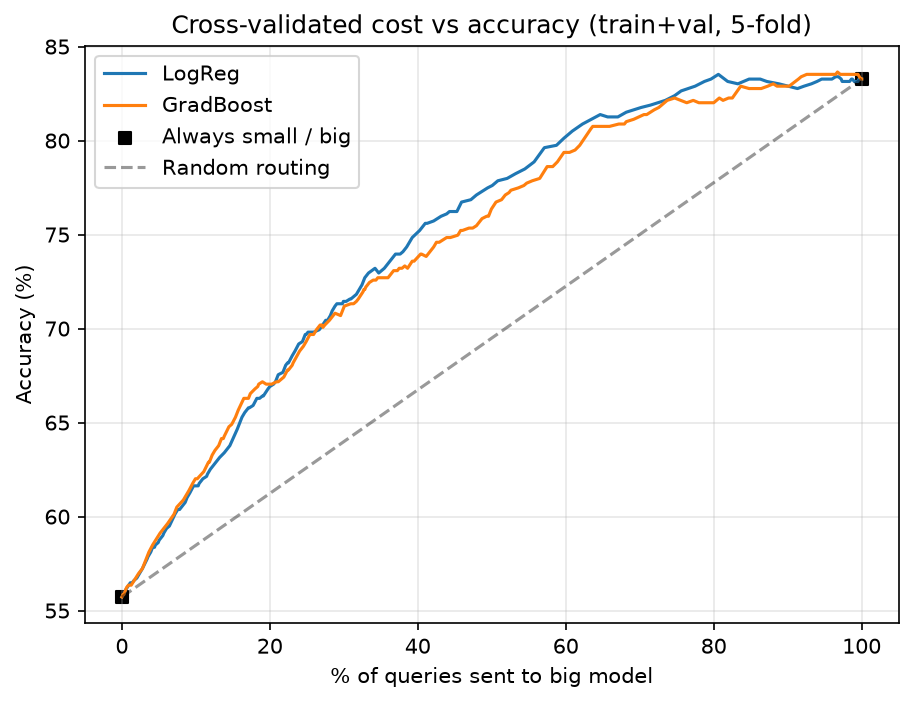
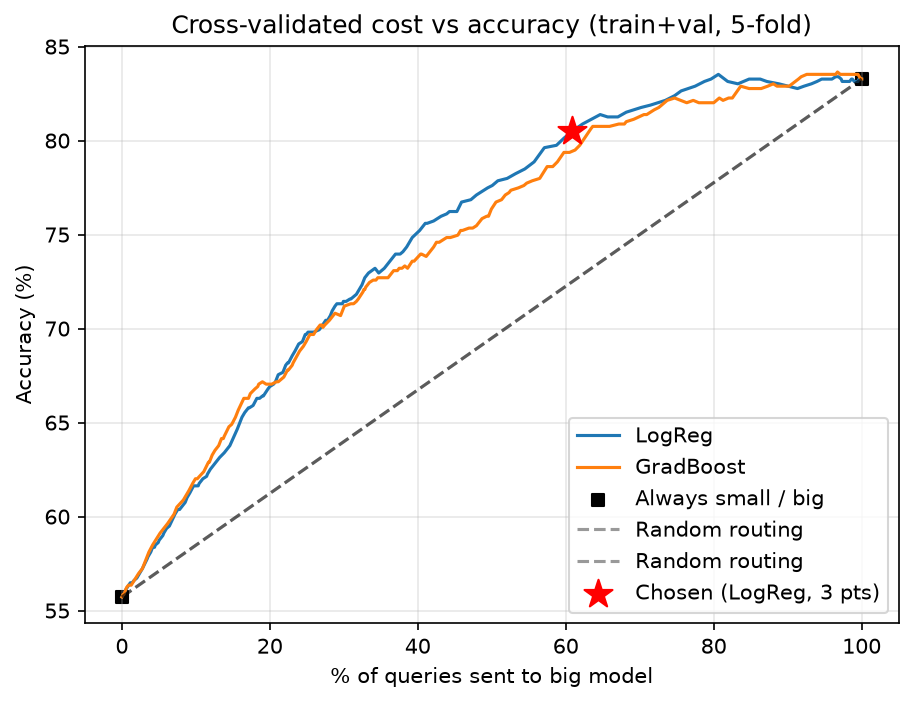
PII: stricter Aadhaar, notes, improved plot

diff --git a/training/eval_pii_hard.py b/training/eval_pii_hard.py
@@ -3,7 +3,7 @@ from gateway.pii import mask
 
 CASES = [
     ("pan is abcde1234f", [("PAN", "abcde1234f")]),                 # lowercase
-    ("Aadhaar 234567890123 given", []),                              # no-gap, likely invalid checksum
+    ("Aadhaar 234567890123 given", [("AADHAAR", "234567890123")]),
     ("call me at +91 (98765) 43210", [("PHONE", "+91 (98765) 43210")]),   # odd format
     ("number 98765-43210 and 9876543210", [("PHONE", "98765-43210"), ("PHONE", "9876543210")]),
     ("tracking 9876543210123", []),                                  # longer number, not a phone
@@ -12,7 +12,7 @@ CASES = [
     ("मेरा नंबर 9876543210 है", [("PHONE", "9876543210")]),            # Hindi context
     ("IFSC SBIN0001234 branch", [("IFSC", "SBIN0001234")]),
     ("order ABCDE1234F-77", [("PAN", "ABCDE1234F")]),               # looks like PAN, is it?
-        ("order number 234567890123 shipped", []),                       # 12 digits, likely fails checksum
+    ("order number 234567890123 shipped", [("AADHAAR", "234567890123")]),                    
     ("tracking id 7123456789012 delivered", []),                     # 13 digits, not a phone
     ("the word ABCDEfghij1234 is a code", []),                       # not a PAN
 ]

diff --git a/training/cv_router.py b/training/cv_router.py
@@ -98,6 +98,8 @@ for name, p in oof.items():
 plt.scatter([0, 100], [small_acc * 100, big_acc * 100], c="black", marker="s",
             label="Always small / big")
 plt.plot([0, 100], [small_acc * 100, big_acc * 100], "k--", alpha=0.4, label="Random routing")
+plt.plot([0, 100], [small_acc * 100, big_acc * 100], "k--", alpha=0.4, label="Random routing")
+plt.scatter([60.9], [80.5], marker="*", s=200, c="red", zorder=6, label="Chosen (LogReg, 3 pts)")
 plt.xlabel("% of queries sent to big model"); plt.ylabel("Accuracy (%)")
 plt.title("Cross-validated cost vs accuracy (train+val, 5-fold)")
 plt.legend(); plt.grid(alpha=0.3)

diff --git a/gateway/pii.py b/gateway/pii.py
@@ -21,10 +21,9 @@ def verhoeff_valid(num: str) -> bool:
         c = _D[c][_P[i % 8][int(ch)]]
     return c == 0
 
-
 def _aadhaar_ok(m: str) -> bool:
-    digits = re.sub(r"\D", "", m)
-    return len(digits) == 12 and digits[0] in "23456789" and verhoeff_valid(digits)
+       digits = re.sub(r"\D", "", m)
+       return len(digits) == 12 and digits[0] in "23456789"
 
 
 # ---- Patterns (order matters: more specific first) ----

diff --git a/tests/test_pii.py b/tests/test_pii.py
@@ -12,9 +12,9 @@ def test_restore_roundtrip():
     assert restore(m, mp) == t
 
 
-def test_invalid_aadhaar_not_masked():
+def test_any_12_digit_id_is_masked():
     m, _ = mask("number 2345 6789 0123")
-    assert "<AADHAAR" not in m
+    assert "<AADHAAR_1>" in m
 
 
 def test_verhoeff_known_valid():

diff --git a/NOTES.md b/NOTES.md
@@ -1,0 +1,25 @@
+# Project notes (LLM Gateway)
+
+## Data
+- 939 questions: 400 GSM8K, 400 TriviaQA, 100 MMLU, 25 business, 15 Hinglish business
+- Small model: Qwen2.5 1.5B (local). Big model: GPT-OSS 120B (Groq)
+- Accuracy: small 55.6%, big 83.8% (oracle router 89.6%)
+- Labels: exact match for GSM8K/TriviaQA/MMLU; business rows judged by the big model (biased, small n)
+
+## Router (cascade, 5-fold CV on train+val, test set untouched)
+- Baseline TF-IDF router: AUROC ~0.67
+- With answer features + token confidence: LogReg AUROC 0.774, GradBoost 0.765
+- Chosen: LogReg, threshold 0.69 (3-point tolerance) -> about 39% fewer big-model calls
+- Trade-off table: data/tradeoff_table.csv
+
+## PII shield (regex, no NER)
+- Types: Aadhaar, PAN, phone, email, IFSC, GST
+- Synthetic test 150/150 (self-generated, optimistic), hard cases 13/13 (written after seeing failures)
+- Aadhaar: any 12-digit group starting 2-9 is masked (no checksum), by choice: higher recall, more false positives
+- Lowercase PAN accepted, so some product codes may be masked
+- Not covered: names, addresses, locations
+
+## Limitations
+- Small dataset and small test set; business labels judged by the big model
+- Cascade design: small model runs first, so escalated queries pay both latencies
+- "Calls saved" is not "cost saved" until the gateway computes token costs
